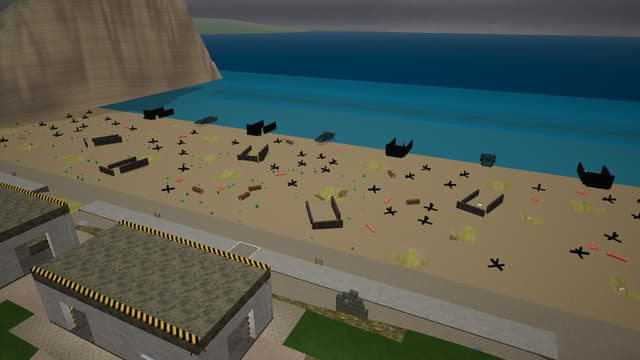
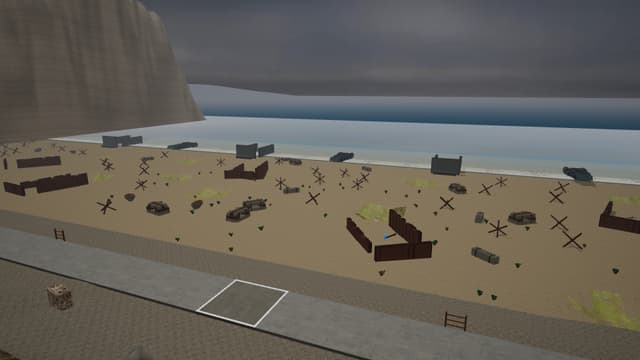
Card shots redone with MapMaker's card camera: Step Temple at eye level (south-west hill, up the terrace stair), Shingle Point at eye level (seawall's west end, down the beach); set in the real editor, exported, recaptured. Eye level kept while flying doesn't climb onto wall tops. HANDOFF section
Claude-Session: https://claude.ai/code/session_012no7opCqP8rCoMpqLVd8kG

diff --git a/packages/shared/src/editor/cardShot.ts b/packages/shared/src/editor/cardShot.ts
@@ -31,12 +31,18 @@ export function cardCamera(position: Vec3, yaw: number, pitch: number): CardCame
   return { position: [r2(position.x), r2(position.y), r2(position.z)], yaw: r4(y), pitch: r4(Math.max(-1.55, Math.min(1.55, pitch))) };
 }
 
+/** Kept at eye level, the camera climbs onto nothing higher than this over the floor it's on (a jump's height, about). */
+export const CARD_EYE_CLIMB = 1.2;
+
 /**
  * Eye level: the camera moved to CARD_EYE_HEIGHT above the floor, roof or ground under it (the highest one no higher
- * than the camera), its look unchanged. Null over nothing at all (the caller keeps the camera as it is).
+ * than the camera), its look unchanged. `kept`: the camera is at eye level already (moving with it): what's under it
+ * counts only up to CARD_EYE_CLIMB over the floor it stands over, so a wall top or a crate just under the eye doesn't
+ * lift it. Null over nothing at all (the caller keeps the camera as it is).
  */
-export function eyeLevel(position: Vec3, boxes: readonly WorldBox[], ground: TerrainData | null): Vec3 | null {
-  const rest = restUnder(boxes, ground, position.x, position.z, position.y);
+export function eyeLevel(position: Vec3, boxes: readonly WorldBox[], ground: TerrainData | null, kept = false): Vec3 | null {
+  const from = kept ? position.y - CARD_EYE_HEIGHT + CARD_EYE_CLIMB : position.y;
+  const rest = restUnder(boxes, ground, position.x, position.z, from);
   if (!rest) return null;
   return { x: position.x, y: rest.y + CARD_EYE_HEIGHT, z: position.z };
 }

diff --git a/packages/client/src/editor/cardShot.ts b/packages/client/src/editor/cardShot.ts
@@ -161,6 +161,8 @@ export function startCardFrame(host: CardShotHost, mode: 'set' | 'preview'): voi
   };
   place();
   const viewH = () => view.scene.getEngine().getRenderingCanvasClientRect()?.height ?? window.innerHeight;
+  /** The camera is at eye level already (Eye level on, snapped). */
+  let kept = false;
   // The shot as the card shows it: no grid, gizmo or markers, every level drawn whole (all back on close).
   view.photoMode(true);
   const allBefore = host.showAll();
@@ -169,9 +171,14 @@ export function startCardFrame(host: CardShotHost, mode: 'set' | 'preview'): voi
   // Each frame: the card's lens over the frame, and eye level kept while it's on.
   const tick = view.scene.onBeforeRenderObservable.add(() => {
     cam.fov = cardViewFov(rect.h, viewH());
-    if (!eyeBox.checked) return;
-    const at = eyeLevel({ x: cam.position.x, y: cam.position.y + 0.05, z: cam.position.z }, host.standOn(), host.ground());
+    if (!eyeBox.checked) {
+      kept = false;
+      return;
+    }
+    // The first time from the camera down; after that from the floor it's over (it doesn't climb onto a wall top).
+    const at = eyeLevel({ x: cam.position.x, y: cam.position.y + 0.05, z: cam.position.z }, host.standOn(), host.ground(), kept);
     if (at && Math.abs(at.y - cam.position.y) > 1e-3) cam.position.y = at.y;
+    kept = !!at;
   });
   // Turning eye level on from high up: drop to it from where the camera is.
   eyeBox.addEventListener('change', () => eyeBox.blur());

diff --git a/packages/shared/test/mapmakerWorkflow.test.ts b/packages/shared/test/mapmakerWorkflow.test.ts
@@ -220,6 +220,11 @@ describe('The card-shot camera (MapMaker overhaul Phase 3 item 8)', () => {
     const block = eyeLevel({ x: 20, y: 30, z: 20 }, boxes, doc.terrain);
     expect(block?.y).toBeCloseTo(4.7);
     expect(eyeLevel({ x: 500, y: 30, z: 500 }, boxes, null)).toBeNull();
+    // Kept at eye level beside the 3 m block, then over it: it doesn't climb onto it (3 m is more than a jump);
+    // straight over it from high up, it does.
+    const ground = eyeLevel({ x: 17, y: 1.6, z: 20 }, boxes, doc.terrain, true)!;
+    expect(ground.y).toBeCloseTo(1.55);
+    expect(eyeLevel({ x: 20, y: ground.y, z: 20 }, boxes, doc.terrain, true)?.y).toBeCloseTo(1.55);
   });
 
   it("the card's frame and lens: 16:9, the capture's FOV over the frame's height", () => {

diff --git a/HANDOFF.md b/HANDOFF.md
@@ -361,6 +361,23 @@ gets overloaded above that: local e2e times out and flakes). Prune landed worktr
      or Defend the objective keeps its post. Keep that?
   3. The party preset (Part 3) and the squad HUD (Part 2) are next.
 
+### MapMaker overhaul: Play from here, the plan view, the card shot (`wip/mapmaker-p3a`, agent, 2026-11-08; Phase 3 items 1, 2 and 8)
+- **Built:** Play from here (Shift+F5, ▶ Here), the plan view (K, Plan; Export PNG), the card-shot camera (Map
+  properties → Card shot: Set card shot…, eye level, Preview, Clear). As built: docs/MAPMAKER_OVERHAUL_PLAN.md under
+  each item; how-to: BUILDING_KIT.md, "Testing, the plan and the card shot (MapMaker)".
+- **Where:** shared `editor/{playFromHere,planView,cardShot,workflowKeys}.ts` (unit tests `mapmakerWorkflow.test.ts`);
+  client `editor/{planView,cardShot}.ts`, wired into `editorApp.ts` with a few lines; the match: `Match.startHere` and
+  `Combatant.startAt` (sim/match.ts), `LocalMatchOptions.startAt` (matchHost.ts), the first life's pitch (session.ts);
+  e2e `editorWorkflowChecks` in `editorux`.
+- **Map format v30:** `metadata.cardCamera` (position, yaw, pitch), a no-op migration, left out of the content hash
+  (like `thumbnailCamera`), so a stamped map's release stays current. `capture-map-shots.mjs` uses it first.
+- **Keys:** Shift+F5 and K, in `editor/workflowKeys.ts` until `wip/mapmaker-p1a`'s key table (`keymap.ts`) is on main:
+  then move both rows into it (two `case`s in the keydown switch today: F5 with Shift, KeyK).
+- **Card shots redone with it** (owner's addendum): Step Temple at eye level on the south-west hill, looking up the
+  terrace stair at the temple; Shingle Point at eye level on the seawall's west end, looking down the beach to the
+  sea. Set through the real editor (scratch Playwright driver: Import, camera, Set card shot…, Enter, Export); each
+  map file's diff is the `cardCamera` and the format version; the pictures from `capture-map-shots.mjs`.
+
 ### MapMaker overhaul: measure, props on surfaces, Randomise, turning by mouse (`wip/mapmaker-p1b`, agent, 2026-11-08; Phase 1 items 3-4 and Phase 3 item 9)
 - **Built:** the measure tool (U), props dropped onto the surface under the pointer, Randomise in the prop tool, the
   rotate ring on the selection gizmo and the inspector's quick facings. As built: docs/MAPMAKER_OVERHAUL_PLAN.md under
